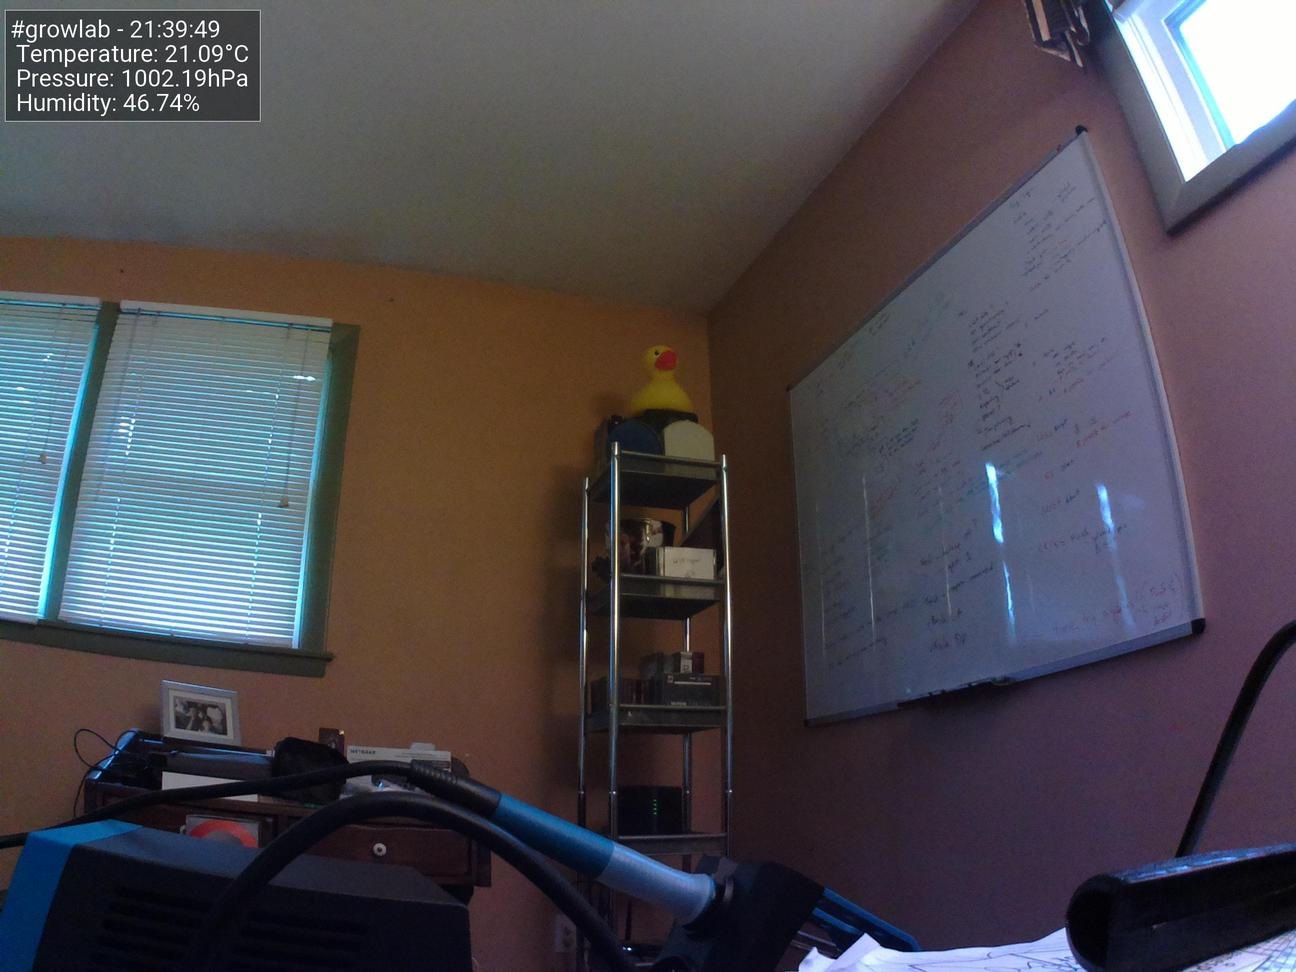
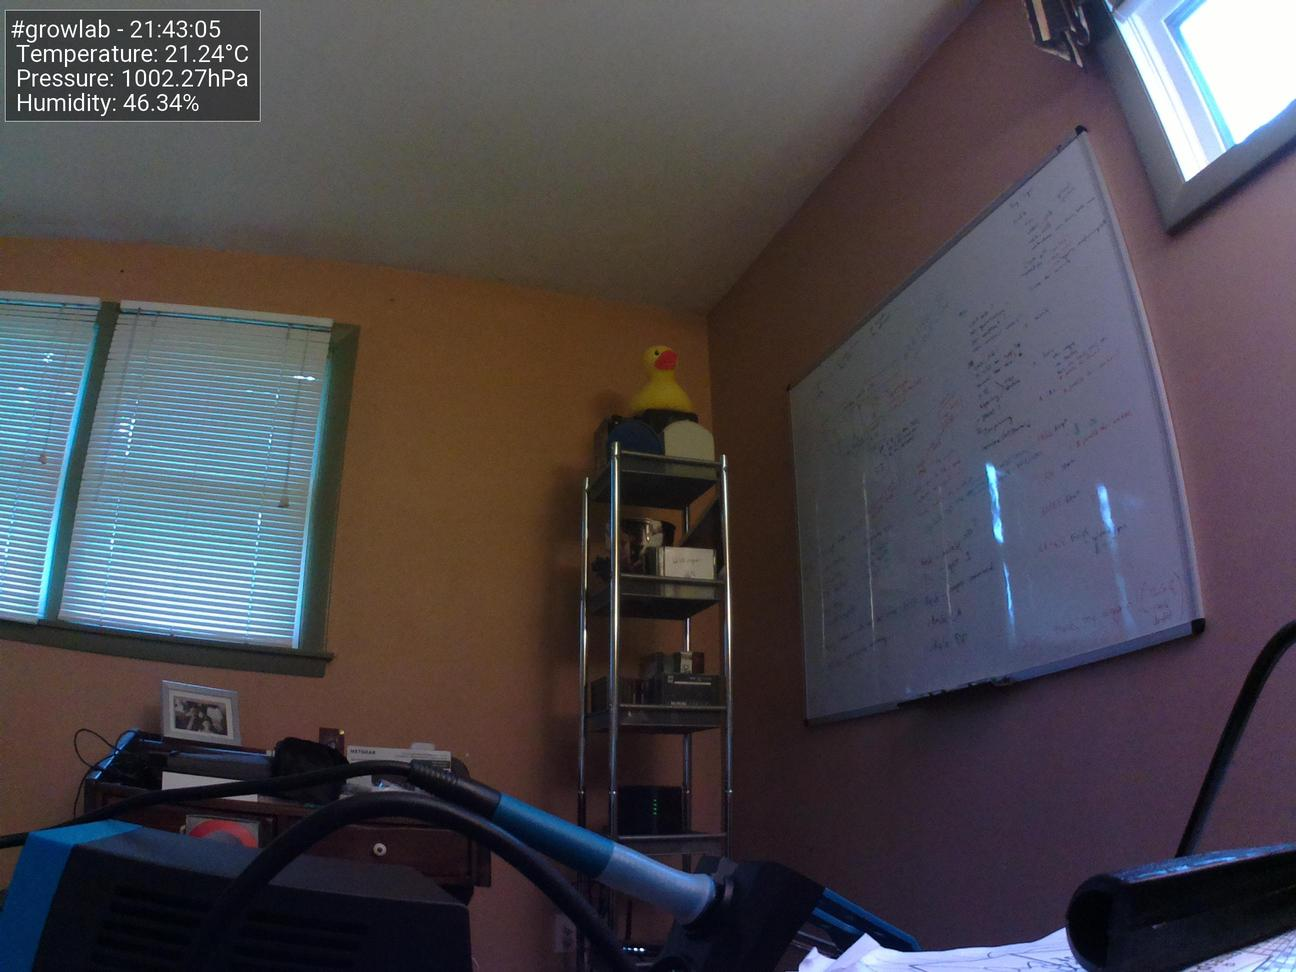
Update images at Sun 30 May 21:43:14 BST 2021

Changed region(s): [[0.0, 0.4012, 0.2469, 0.6481], [0.0926, 0.4012, 0.2469, 0.4938], [0.1235, 0.0, 0.1852, 0.1235]]

diff --git a/docs/index.html b/docs/index.html
@@ -47,19 +47,19 @@
                         <tbody>
                             <tr>
                                 <td>Time</td>
-                                <td>21:39:49</td>
+                                <td>21:43:05</td>
                             </tr>
                             <tr>
                                 <td>Temperature</td>
-                                <td>21.09°C</td>
+                                <td>21.24°C</td>
                             </tr>
                             <tr>
                                 <td>Humidity</td>
-                                <td>46.74%</td>
+                                <td>46.34%</td>
                             </tr>
                             <tr>
                                 <td>Pressure</td>
-                                <td>1002.19hPa</td>
+                                <td>1002.27hPa</td>
                             </tr>
                         </tbody>
                     </table>
@@ -67,7 +67,7 @@
 
                 <h5>Latest image</h5>
                 <div style="width: 85%;">
-                            <img class="figure-img img-fluid rounded" src="./preview.jpg?uid=1622407198.0063913">
+                            <img class="figure-img img-fluid rounded" src="./preview.jpg?uid=1622407393.6233833">
                 </div>
             </div>
         </div>
